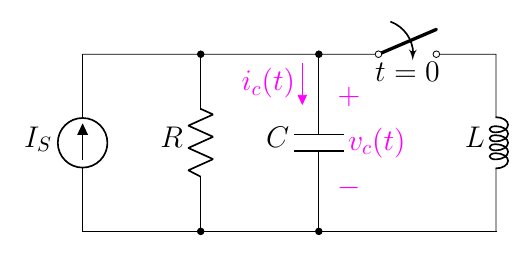
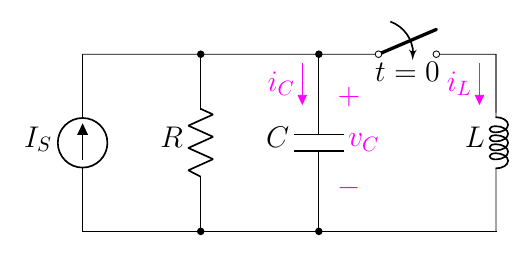
9.16

Changed region(s): [[0.634, 0.5, 0.7849, 0.625], [0.4528, 0.2812, 0.5736, 0.375], [0.8453, 0.2812, 0.9358, 0.4062]]

diff --git a/2.6 Overdamped/9.2 The Overdamp RLC Circuit/9.16(new).tex b/2.6 Overdamped/9.2 The Overdamp RLC Circuit/9.16(new).tex
@@ -27,10 +27,13 @@
     \node at (5.5,2.7)[]{$t=0$};
 
     \draw[magenta](4.2,0.5)
-        to[open, v>=$v_c(t)$] ++(0,2);
+        to[open, v>=$v_C$] ++(0,2);
 
     \draw[circuitikz/current arrow color=magenta](4,3)
-        to[open,f>_=$\color{magenta}{i_c(t)}$] ++(0,-2.4);
+        to[open,f>_=$\color{magenta}{i_C}$] ++(0,-2.4);
+
+    \draw[circuitikz/current arrow color=magenta](7,3)
+        to[open,f>_=$\color{magenta}{i_L}$] ++(0,-2.4);
 
 \end{circuitikz}
 \end{document}
